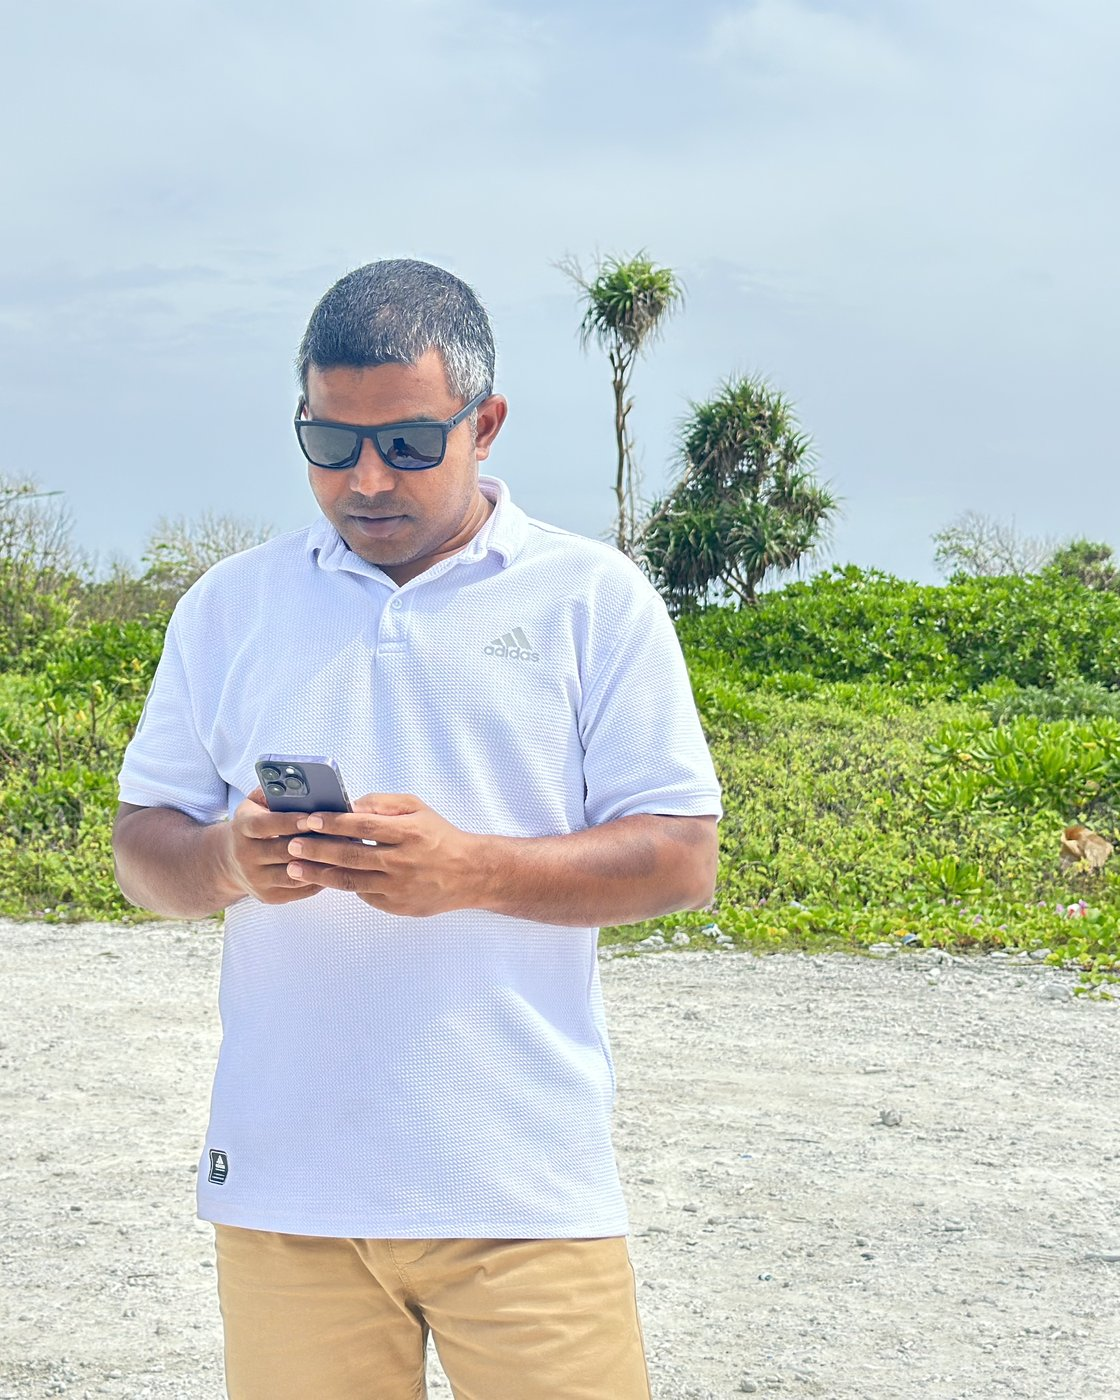
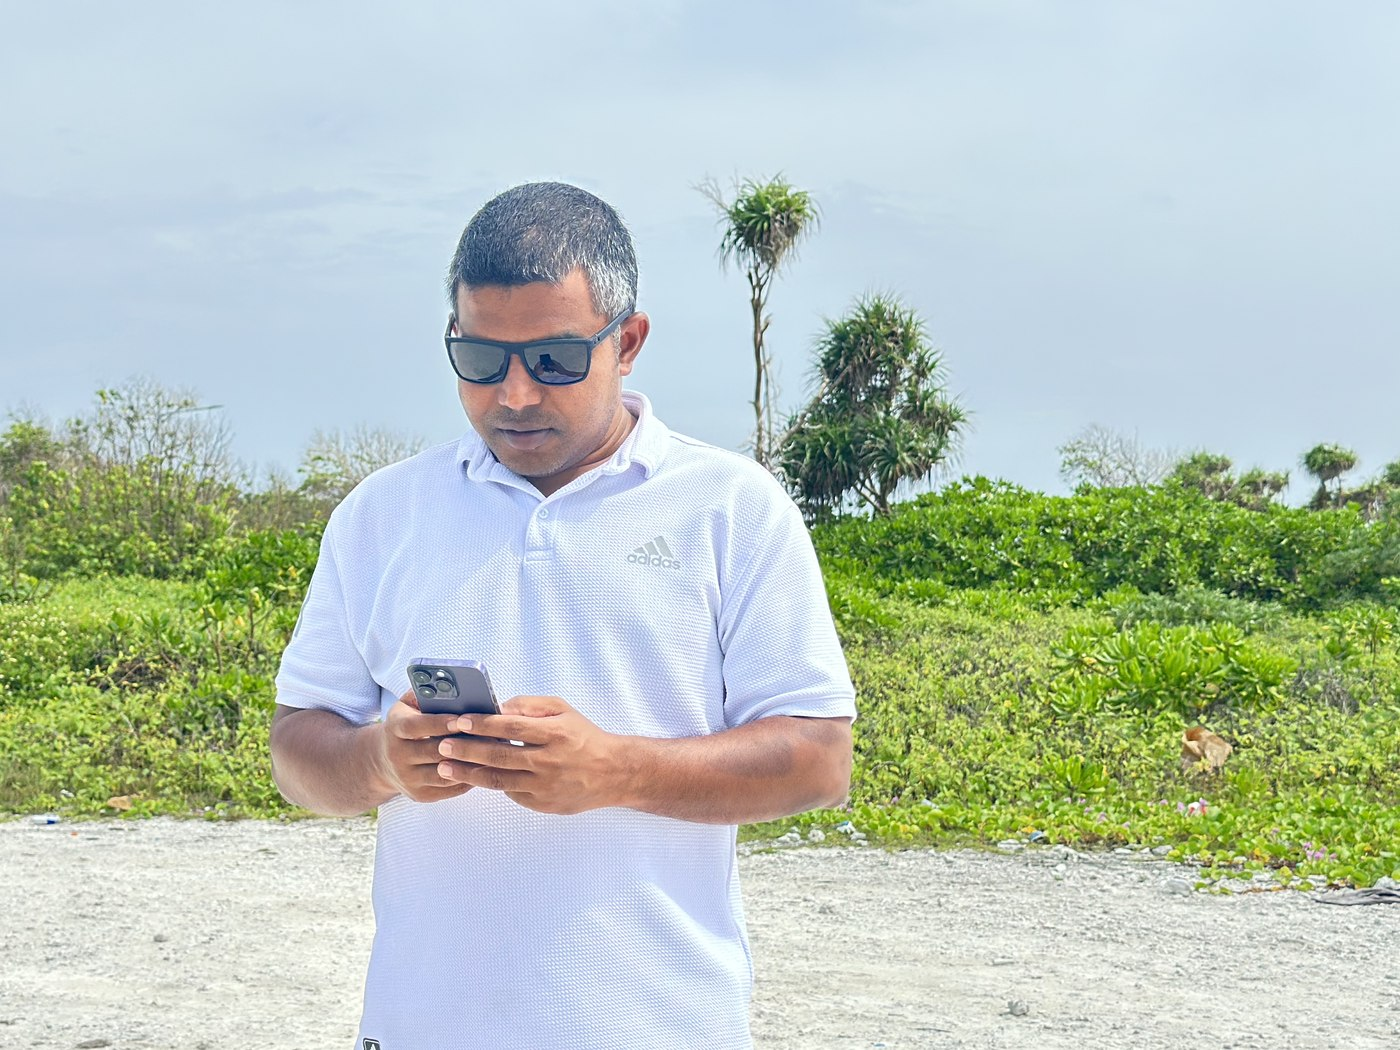
Re-crop landing page CEO photo to landscape
Recrop from the original source to a wider 4:3 landscape framing
(instead of the previous tight portrait crop) and adjust the hero
image's aspect ratio to match, showing more of the scene.

diff --git a/frontend/src/pages/Landing.jsx b/frontend/src/pages/Landing.jsx
@@ -68,7 +68,7 @@ export default function Landing() {
             <img
               src="/ceo-hassan-najah.jpg"
               alt="Hassan Najah, Chief Executive Officer of Edu Solutions"
-              className="aspect-[4/5] w-full rounded-3xl object-cover shadow-xl"
+              className="aspect-[4/3] w-full rounded-3xl object-cover shadow-xl"
             />
             <div className="absolute bottom-4 left-4 right-4 rounded-xl bg-indigo-600 px-5 py-3 text-white shadow-lg sm:right-auto sm:min-w-[220px]">
               <p className="text-base font-semibold">Hassan Najah</p>
